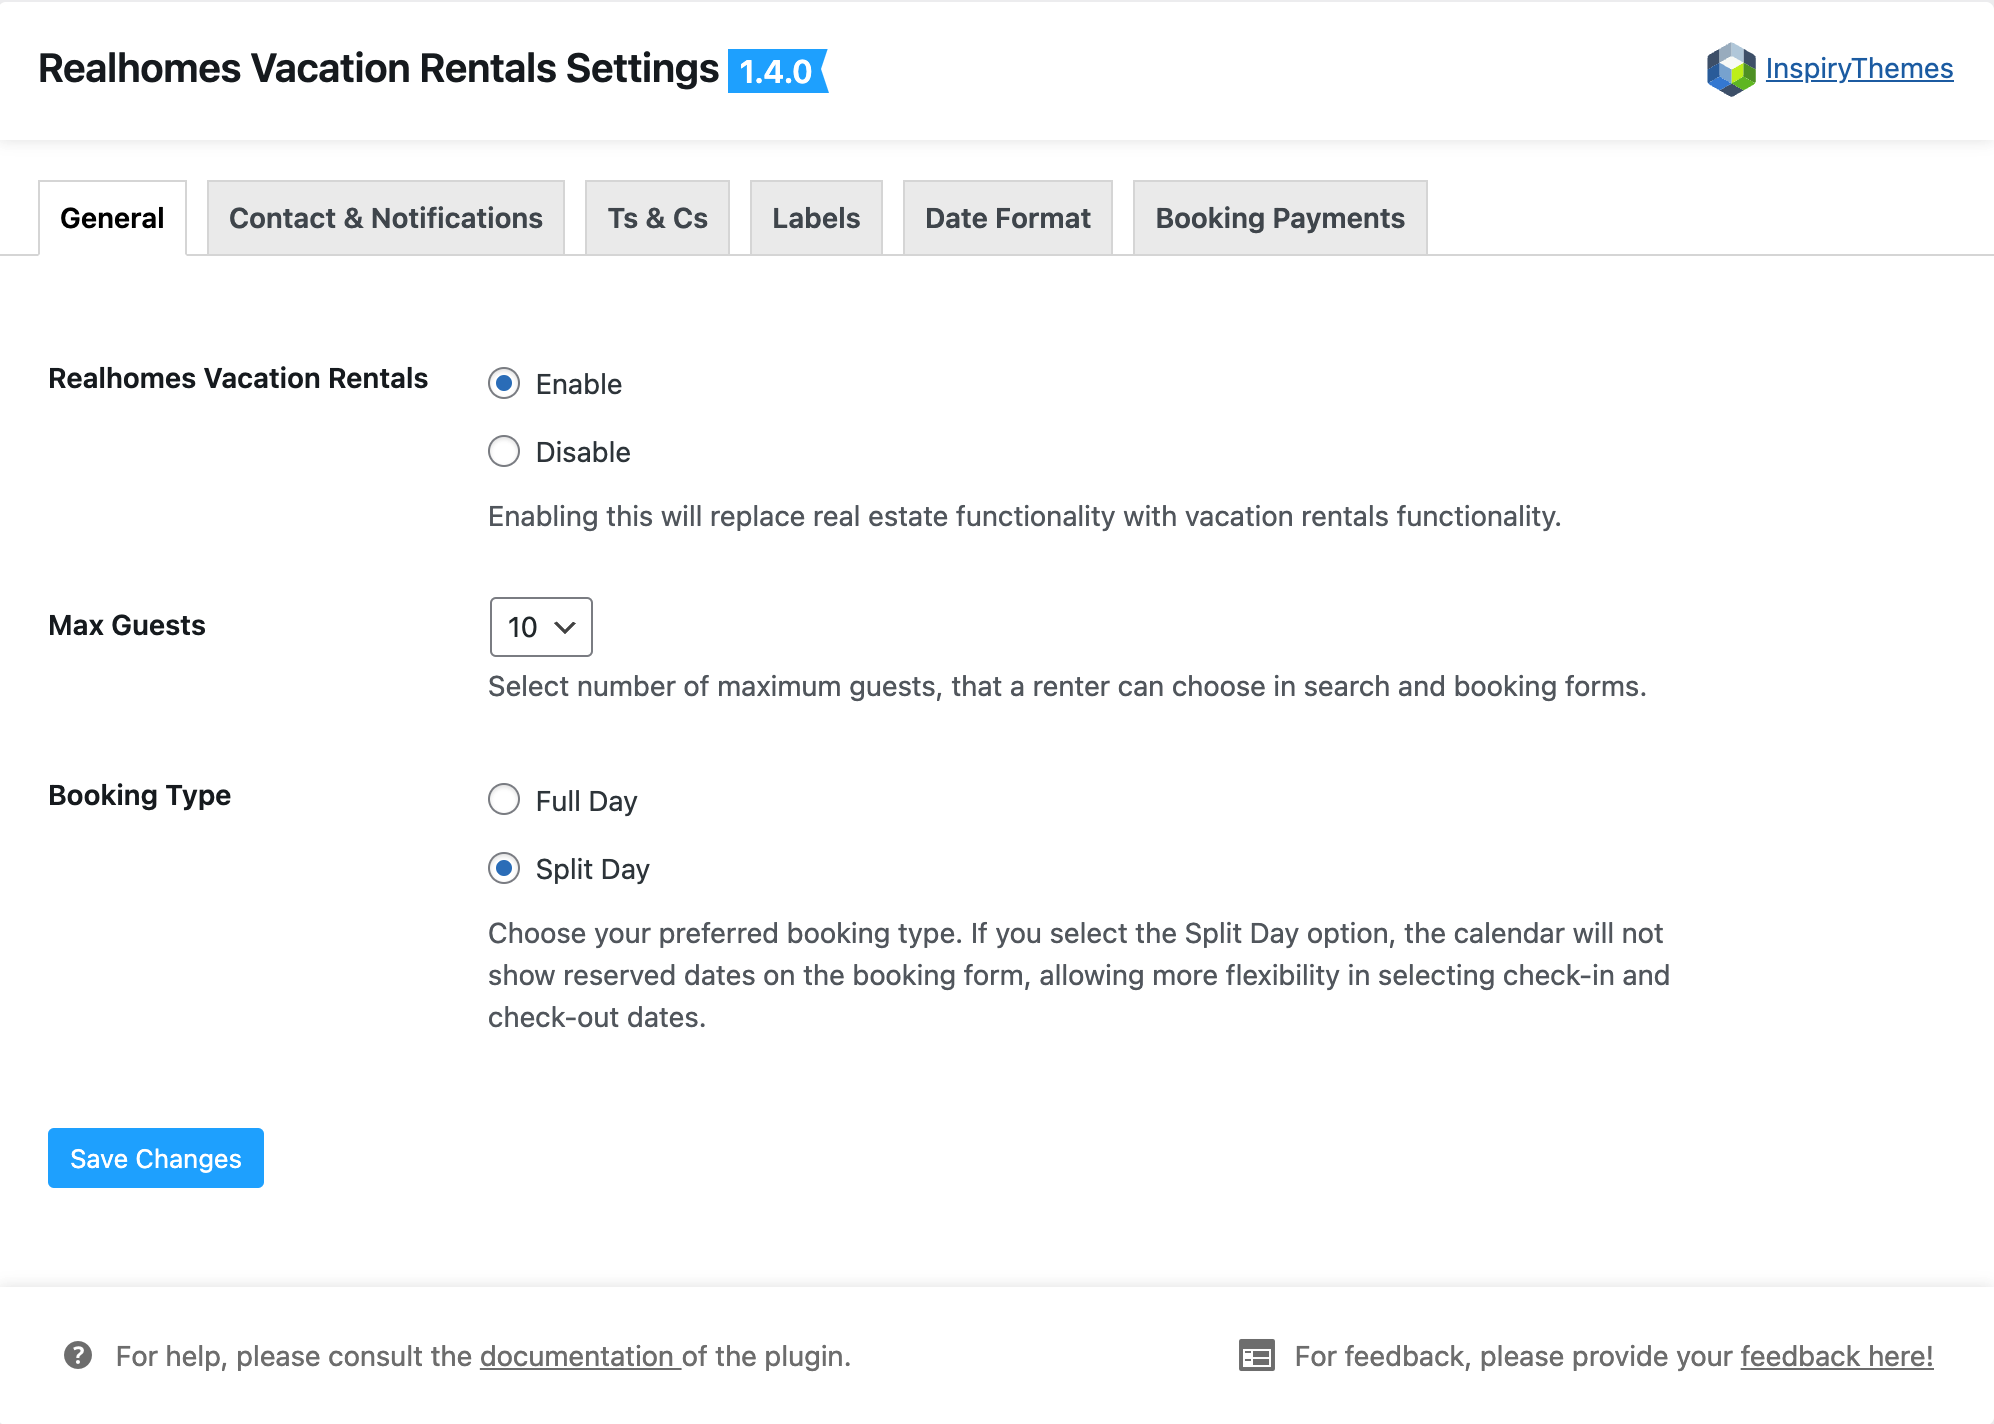
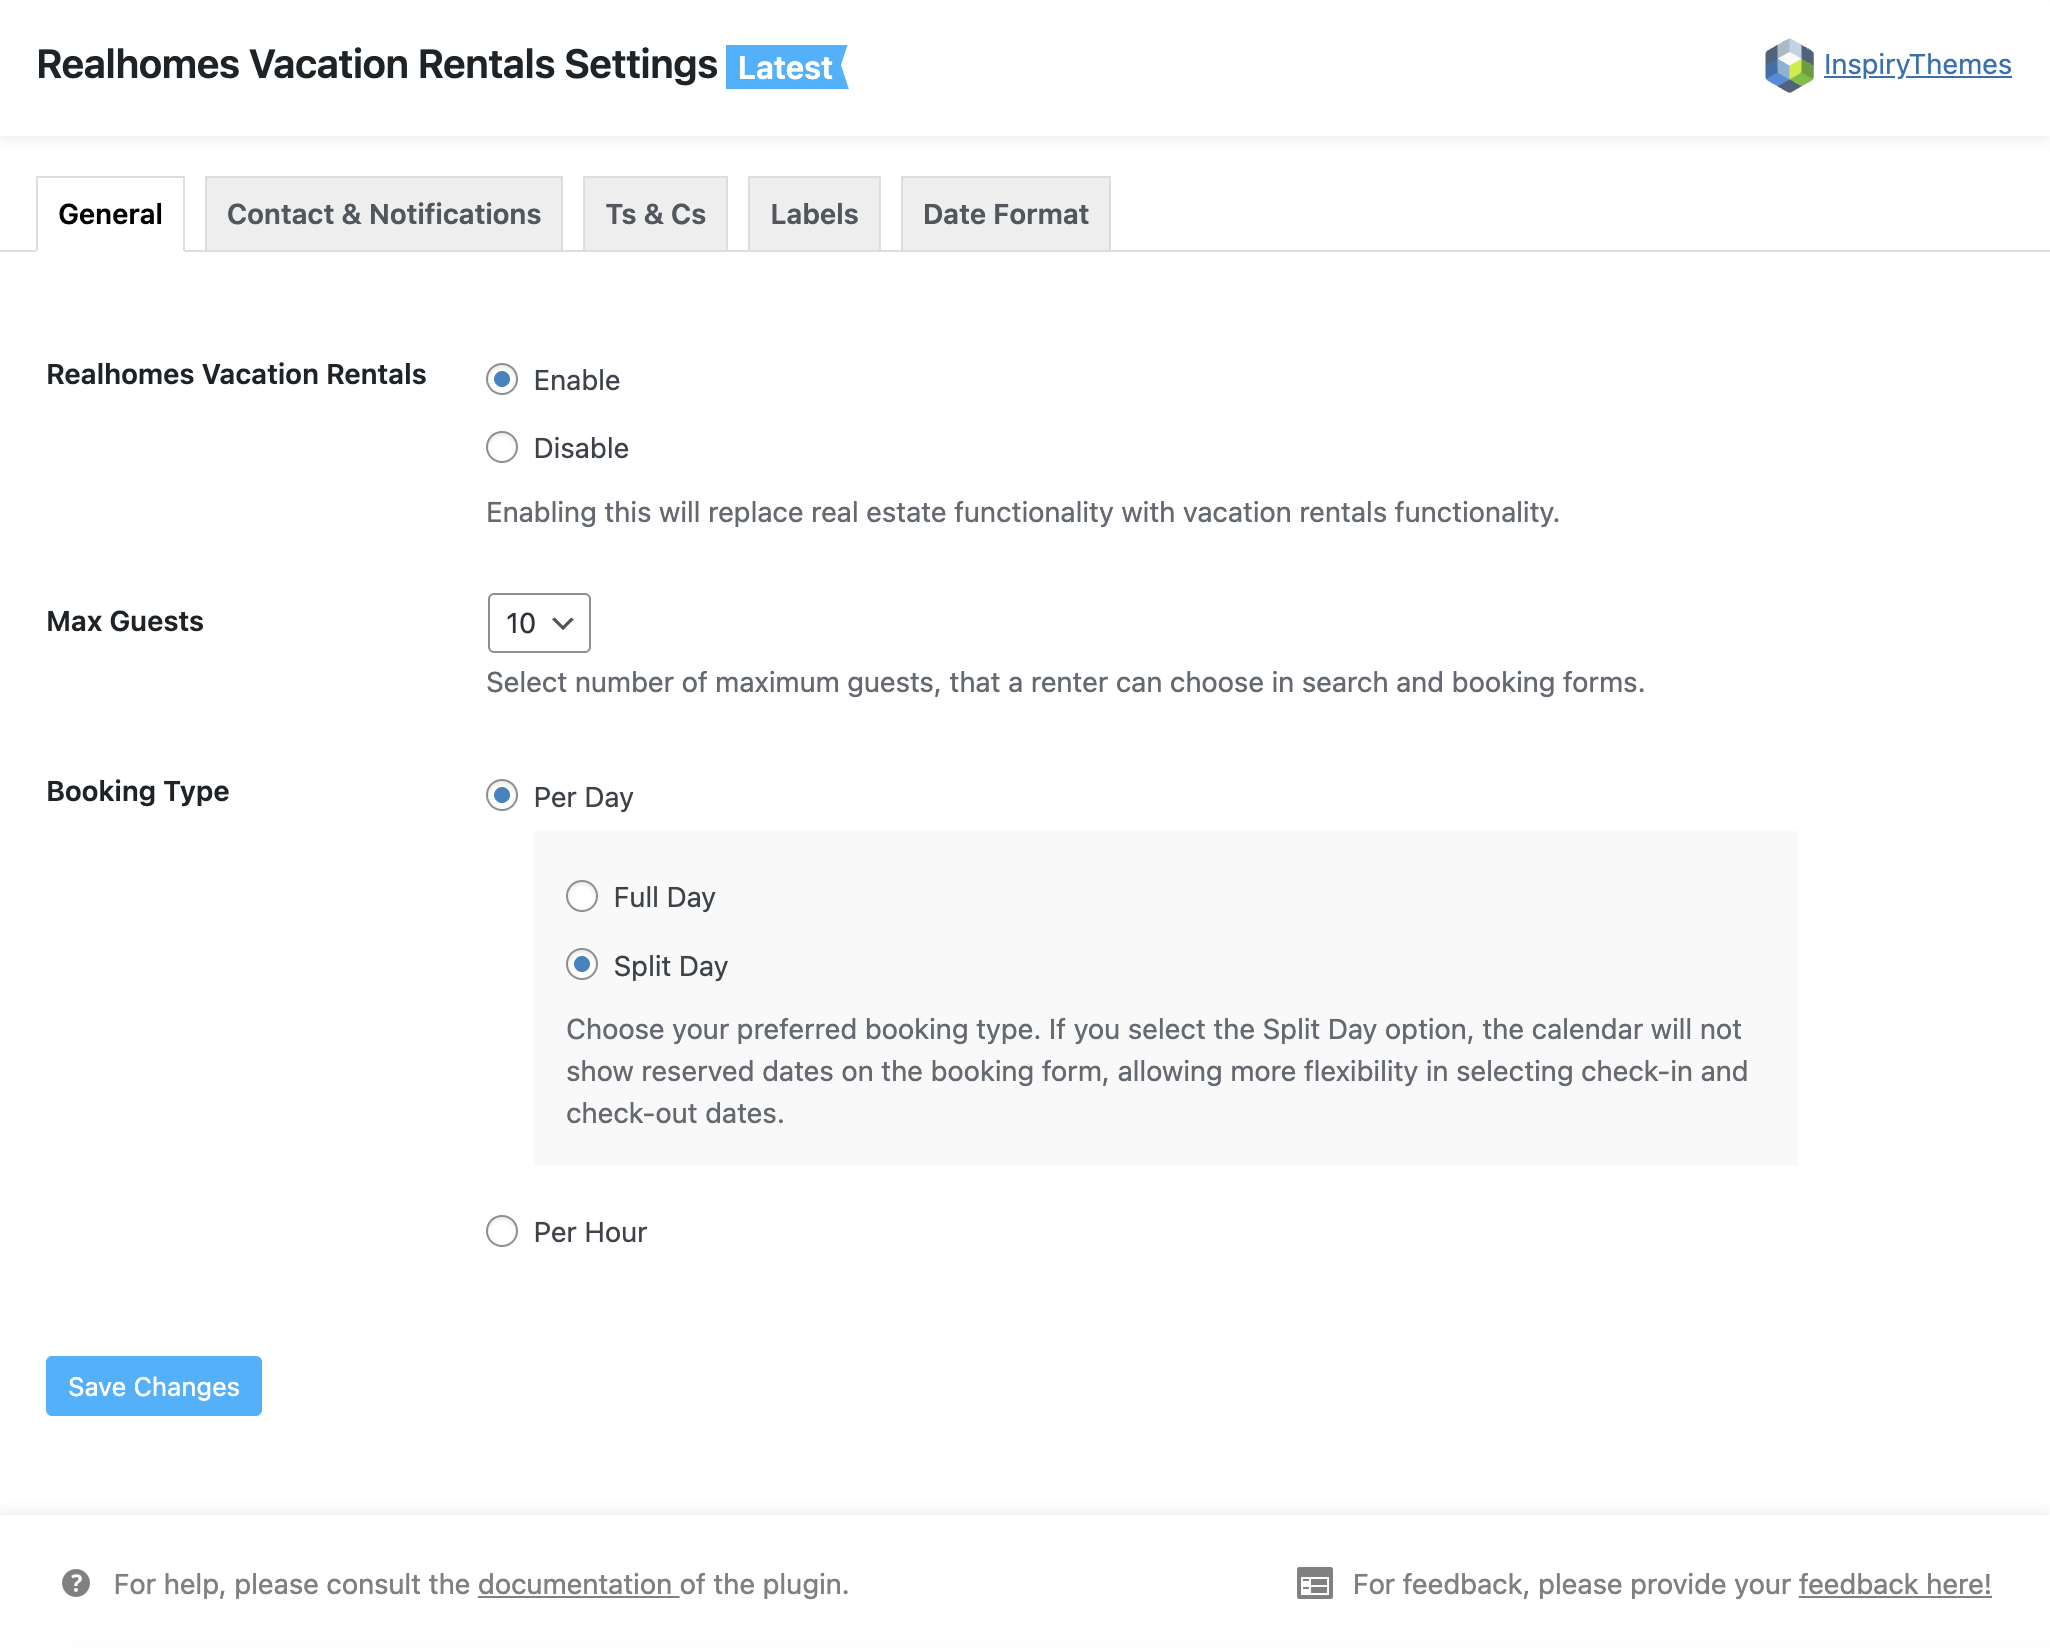
Added Hourly Booking feature information

diff --git a/docs/vr-settings.md b/docs/vr-settings.md
@@ -4,7 +4,9 @@ You can make any changes for Vacation Rentals settings in **Dashboard &rarr; Vac
 
 - **Enable/Disable Vacation Rentals**
 - **Maximum Guests**
-- **Booking Type (Full Day or Split Booking)**
+- **Booking Type**
+    - **Per Day**: Choose between **Full Day** or **Split Day**. Selecting the Split Day option gives more flexibility by not showing reserved dates on the front-end booking form calendar.
+    - **Per Hour**: Enables hourly booking functionality for the property.
 
 ![Vacation Rentals Booking](images/vacation-rentals/vr-general.png)
 
